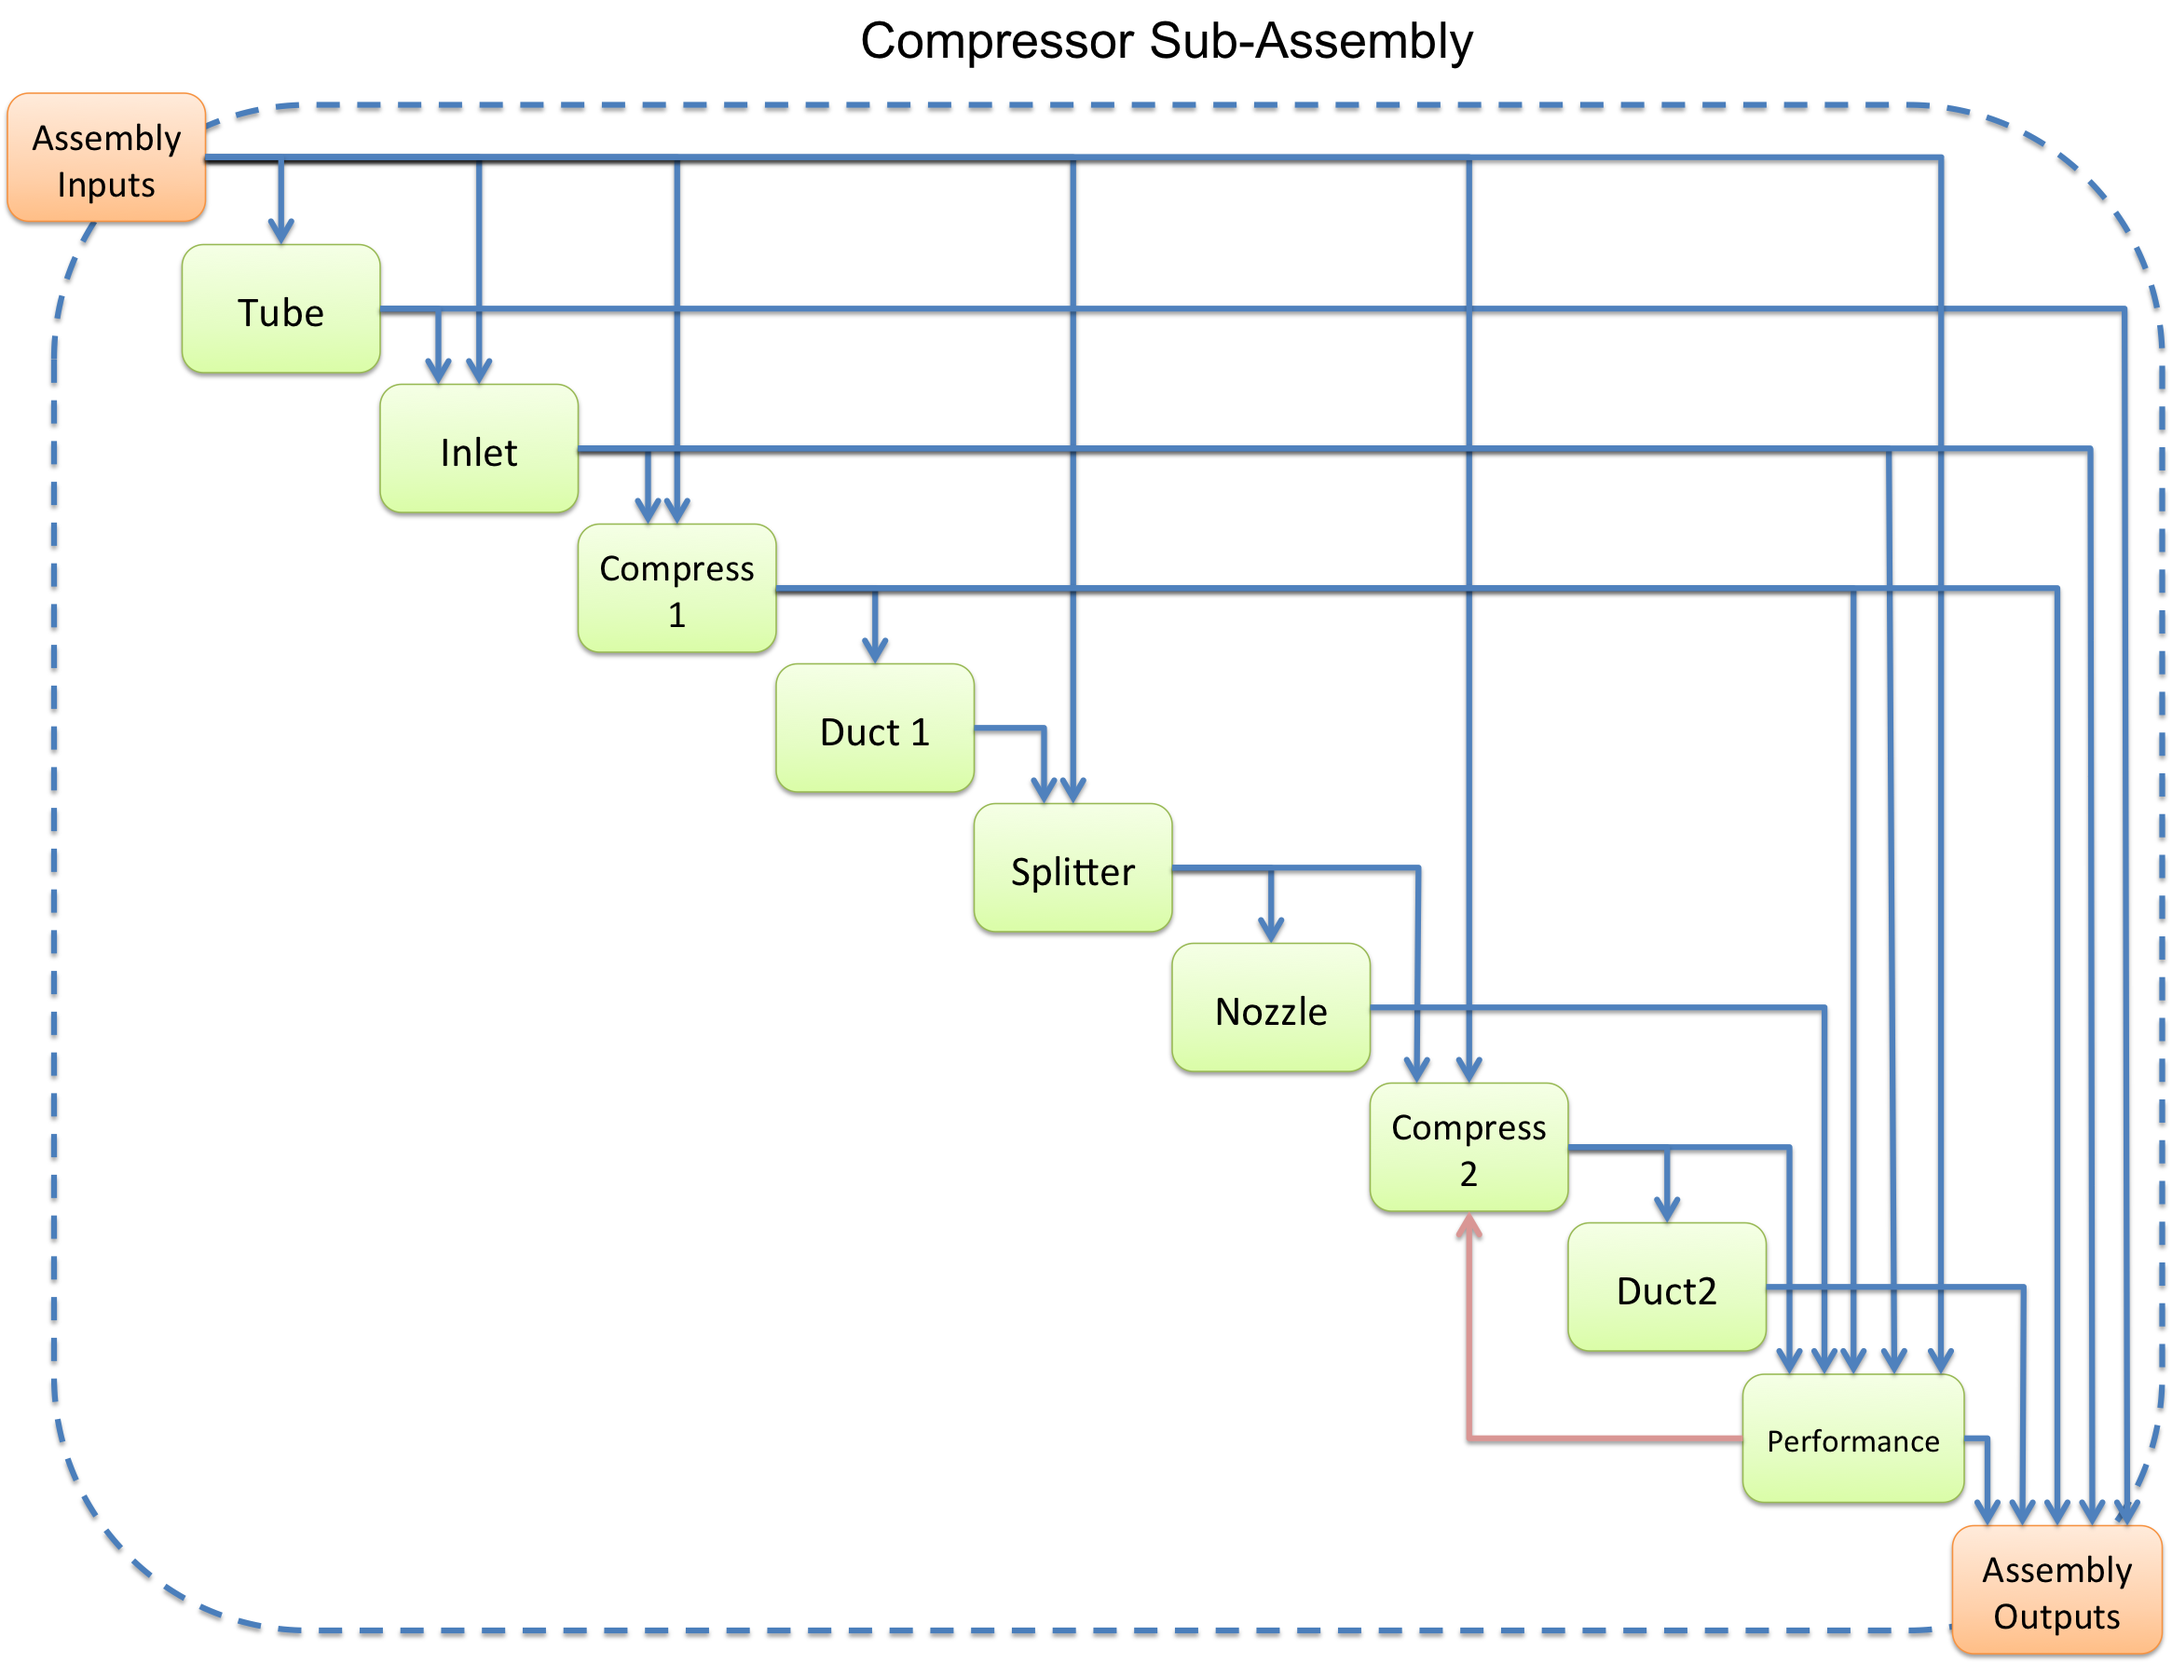
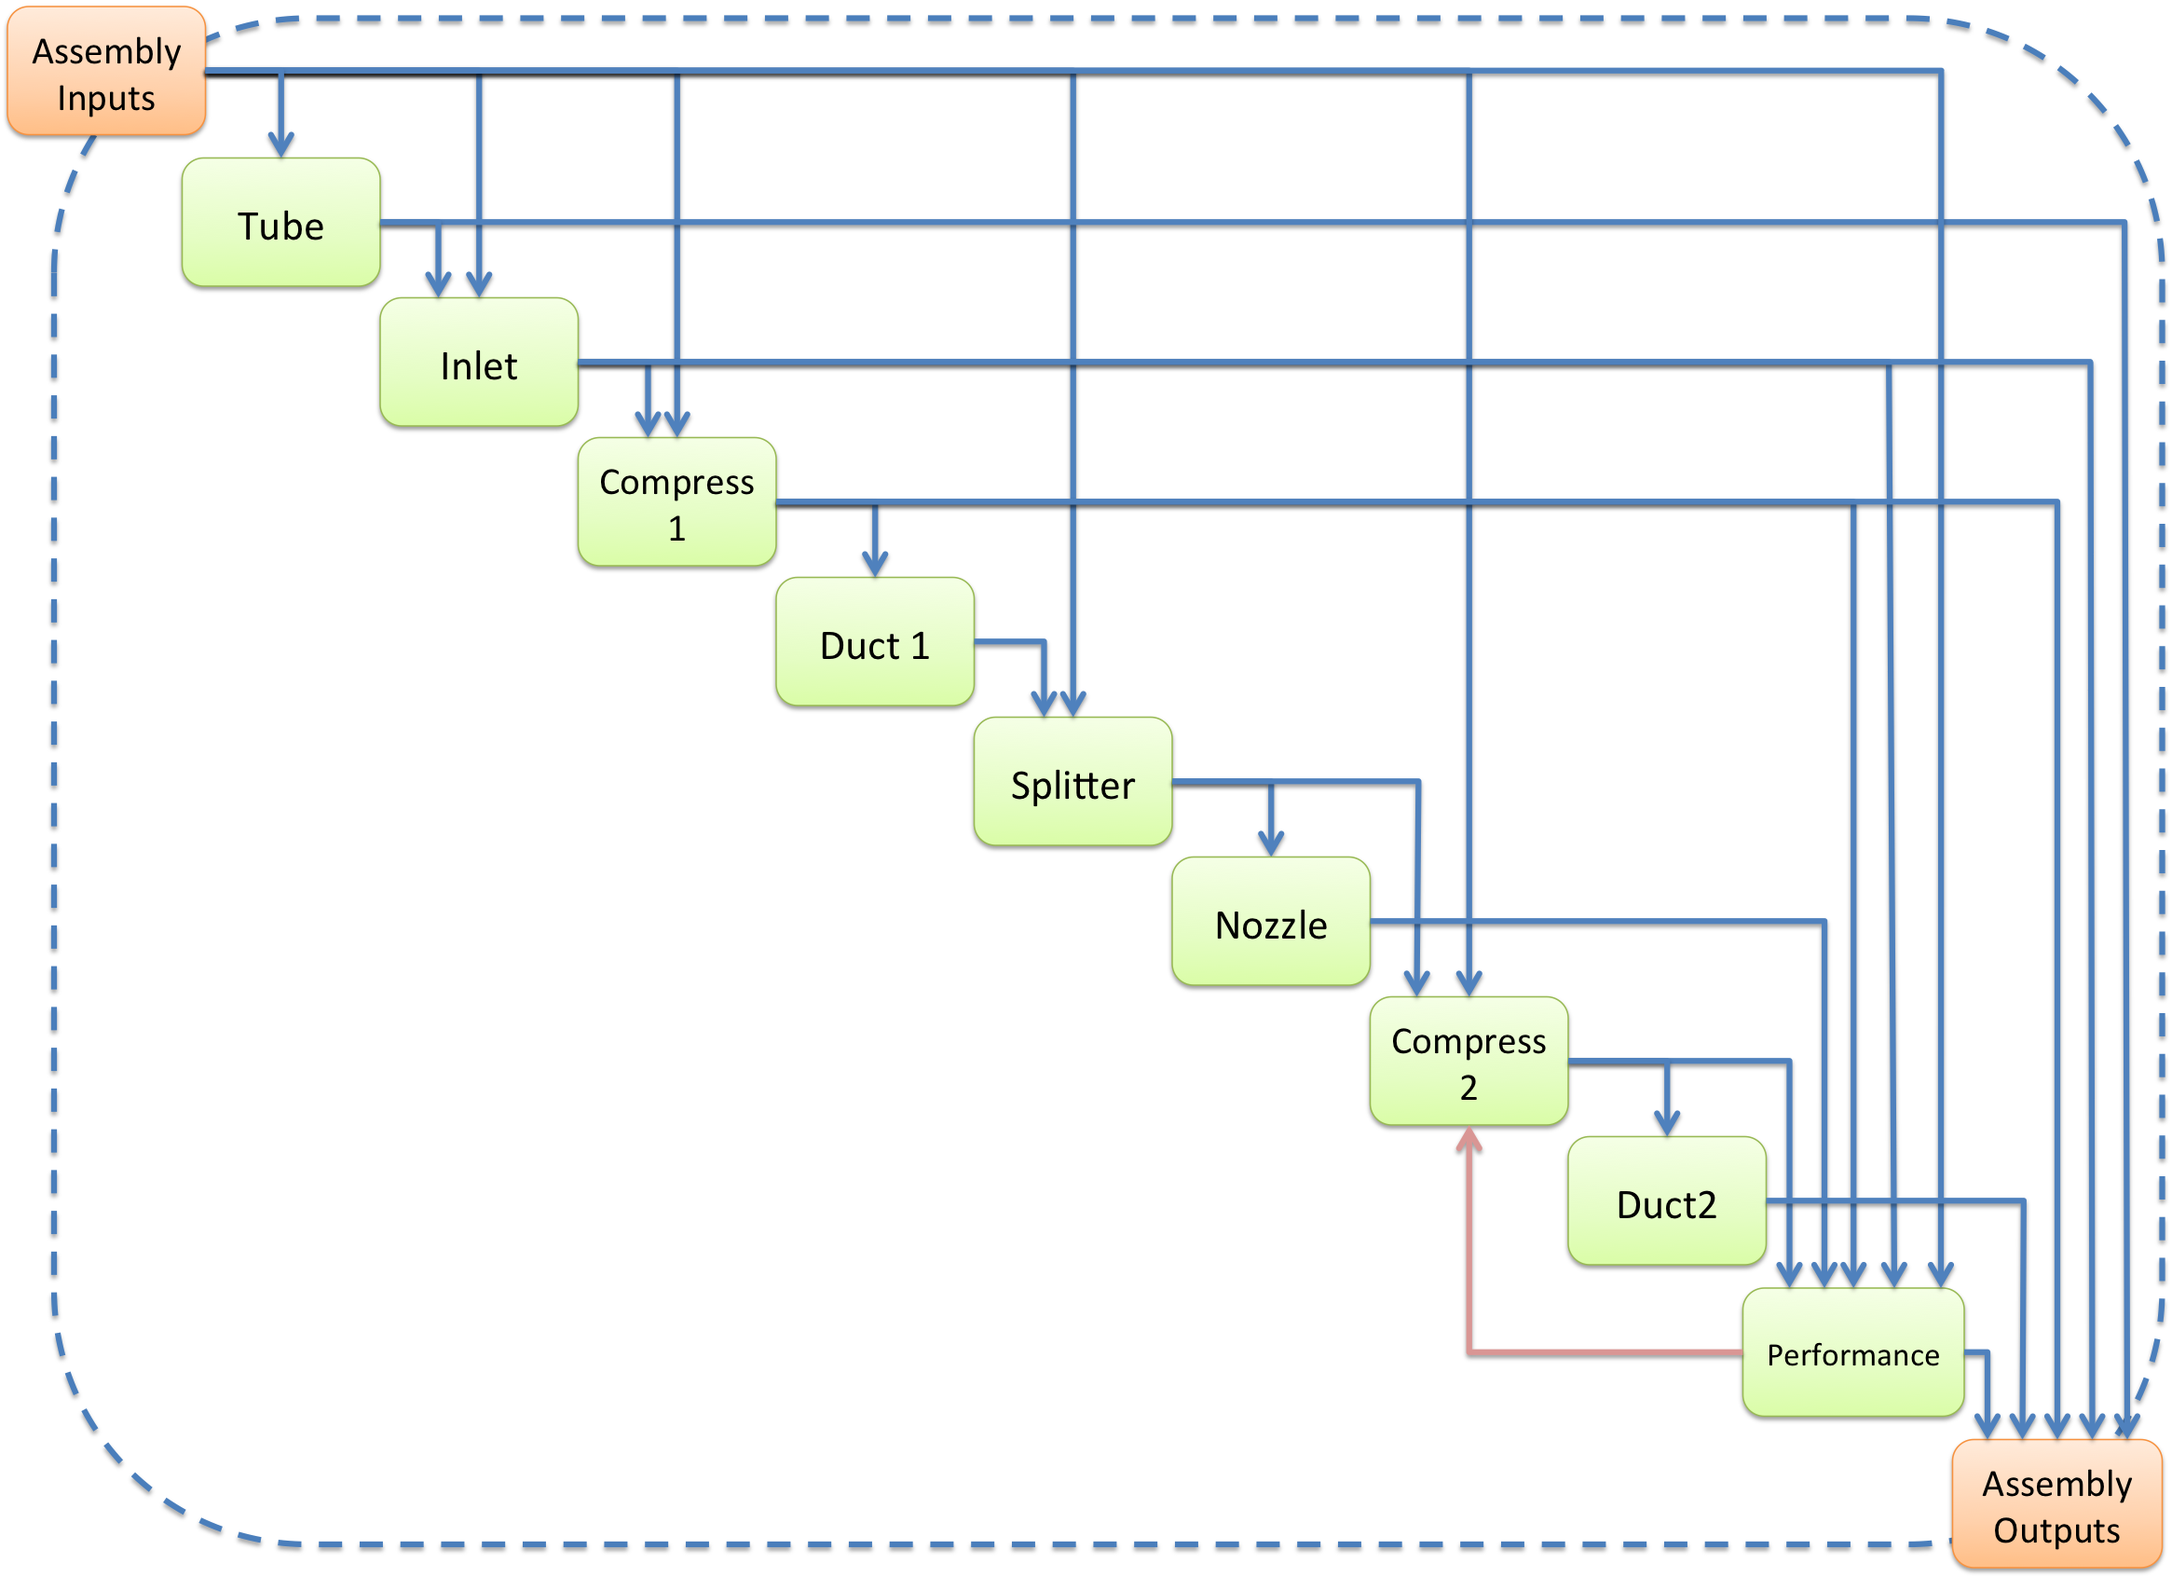
expanded thermal conclusions, cropped title out of xdsm's

diff --git a/NASA-TM/hyperloop.tex b/NASA-TM/hyperloop.tex
@@ -118,7 +118,7 @@ This issue will be discussed in much greater detail in Section~\ref{s:sizing}.
 
 \begin{figure}[hbtp]
 \centering
-\includegraphics[width=0.6\textwidth]{images/TopAssembly.png}
+\includegraphics[width=0.65\textwidth]{images/TopAssembly.png}
 \caption{Workflow and dependencies between the major Hyperloop subsystems.}
 \label{f:hyperloopXDSM}
 \end{figure}
@@ -131,7 +131,7 @@ This breakdown enhanced modularity so that future work could replace these simpl
 
 \begin{figure}[hbtp]
 \centering
-\includegraphics[width=0.6\textwidth]{images/podAssembly.png}
+\includegraphics[width=0.65\textwidth]{images/podAssembly.png}
 \caption{Expanded \texttt{pod} assembly diagram}
 \label{f:podXDSM}
 \end{figure}
@@ -155,7 +155,7 @@ the overall performance and second compressor subsystems.
 
 \begin{figure}[H]
 \centering
-\includegraphics[width=0.6\textwidth]{images/compAssembly.png}
+\includegraphics[width=0.7\textwidth]{images/compAssembly.png}
 \caption{Expanded \texttt{compression} assembly diagram}
 \label{f:compressorXDSM}
 \end{figure}
@@ -313,8 +313,7 @@ and appropriately enforcing conservation equations across the entire system.
 PyCycle was built within the openMDAO framework and leverages Cantera \cite{goodwin2009cantera} for thermodynamic calculations.
 The model predicts the instantaneous power consumption of the compressors, temperature and pressure rises,
 and upstream conditions necessary to supply sufficient airflow to the bearings.
-These power requirements are a function of the chosen cycle and are both affected by
-and contribute to the thermal conditions, creating the feedback loop “C” in Fig. \ref{f:hyperloopXDSM}.
+These power requirements are a function of the chosen geometry, creating the feedback loop “B” in Fig. \ref{f:hyperloopXDSM}.
 Combined with the mission profile described below, these requirements impact battery sizing.
 
 \begin{figure}[hbtp]
@@ -423,9 +422,10 @@ and the proposed requirement to fully cool the air back down to inlet temperatur
     \end{tabular}
 \end{table}
 
-With a 35 minute trip, $0.45 \frac{kg}{s} * 60 \frac{s}{min} * 35min = 945 kg$ of standard temperature/pressure water would need to be carried 
-with steam tanks over a hundred meters in length. This doesn't even account for the second stage heat exchanger, making the system nearly infeasible
-with water and unpressurized tanks. Various systems involving partial cooling, alternate coolants (such as liquid air), or pressurized tanks could be explored.
+With a 35 minute trip, $0.45 \frac{kg}{s} * 60 \frac{s}{min} * 35min = 945 kg$
+of standard temperature/pressure water would need to be carried with steam tanks over a hundred meters in length.
+This doesn't even account for the second stage heat exchanger, making the system nearly infeasible with water and unpressurized tanks.
+Various systems involving partial cooling, alternate coolants (such as liquid air), or pressurized tanks could be explored.
 
 Further discussion of heat exchanger sizing can be found in the heat exchanger section of \cref{app:heatX}.
 The calculations explore the possibility of multi-pass heat exchangers
@@ -543,17 +543,21 @@ From this point the total heat transfer from natural convection can be obtained,
 Q_{nat. conv} = hA \Delta T = \frac{k*Nu}{ {OD}_{tube}} \pi {L}_{tube} {OD}_{tube} (T_{tube}-T_{amb})
 \end{equation}
 
-The steady state tube temperature can be found by varying the tube temperature until the rate of heat being released from the tube
-matches the rate of heat being absorbed by the tube.
-Assuming the tube was left uncovered, the heat rate from solar radiation would be an order of magnitude larger than the heat
-rate added from pod compression systems.
-This result suggests that there is no need for on-board cooling, however many baseline assumptions have yet to be validated or even defined.
-The analysis simply recognizes the dominant heating factors on the large tube structure, with profound benefits if the tube is shielded with solar panels.
+The steady state tube temperature can be found by varying the tube temperature until the
+rate of heat being released from the tube matches the rate of heat being absorbed by the tube.
+Assuming the tube was left uncovered, the heat rate from solar radiation would be an order of
+magnitude larger than the heat rate added from pod compression systems.
+This result suggests that there is no need for on-board cooling, since the marginal temperature
+rises would result in higher convection and radiation rates, quickly bringing the system back to steady-state.
 Assuming a 90 degF day in addition to other nominal values for typical heat transfer variables,
-radiation and convection out of the tube would lead to a manageable steady state tube wall temperature of 120 degF. 
-Assuming the tube was left uncovered, the heat rate from solar radiation would be an order of magnitude larger than the heat rate added from pod compression systems.
+radiation and convection out of the tube would lead to a manageable steady-state tube wall temperature of 120 degF.
+This sub-iteration then feeds back into the overall hyperloop convergence loop, both affected by
+and contributing to the compression cycle, creating feedback “C” in Fig. \ref{f:hyperloopXDSM}.
+The analysis suggests that the dominant heating factors are a direct result of the massive tube structure,
+with relatively low coupling with the pod design.
+The thermal management should therefore be incorporated into the tube design, rather than integrated into the pod design.
+Solutions such as solar panel sheilding would produce even more optimistic results.
 
-State why intercoolers are impractical
 
 \section{Conclusions}
 
